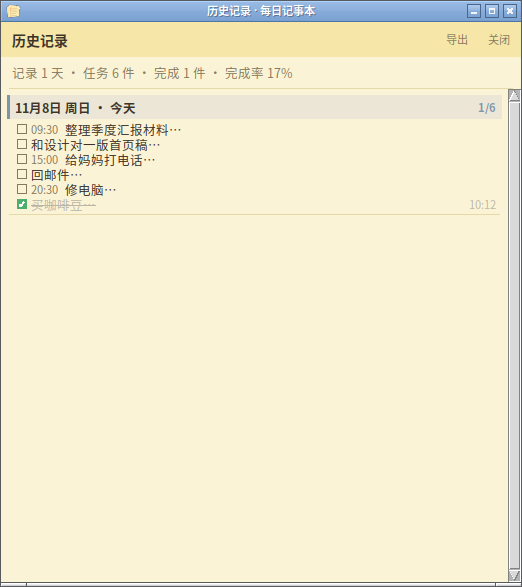
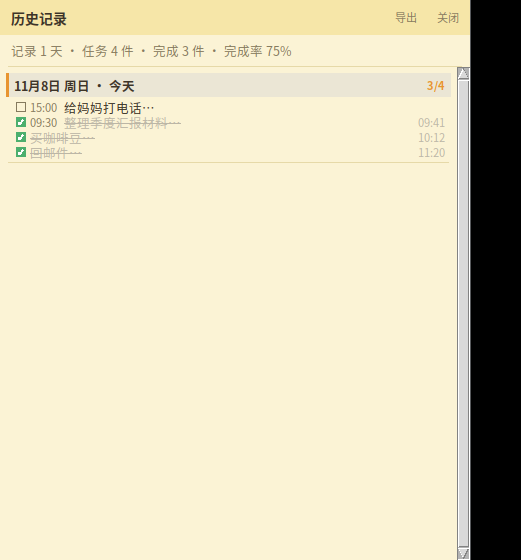
v1.9.9.50: 管理窗切语言刷新 + 英文空态换行 + 截图去系统标题栏
- 管理窗顶部提示保存引用，切语言后 refresh_labels 立即刷新
  （用户实测：英文模式下提示仍是中文）
- 管理窗空态文字加 wraplength 按窗宽自动换行；英文文案改三行
  （旧版一行超长被右缘截断成「when addin...」）
- 独立窗口截图（时钟/日历/管理窗/历史）重截为窗口内容版，
  不再带 Linux 桌面标题栏，与真实 Windows 使用一致
- 新增 tests/test_v199950.py 3 项回归

Changed region(s): [[0.0, 0.0, 1.0, 1.0]]

diff --git a/main.py b/main.py
@@ -27,7 +27,7 @@ from i18n import t as tr
 
 APP_NAME = "每日记事本"
 APP_NAME_EN = "Daily Note"
-VERSION = "1.9.9.49"
+VERSION = "1.9.9.50"
 
 # 对话消息最多保留条数。v1.9.9.40 及以前是 60——聊天一多旧记录
 # 被三处 [-60:] 硬裁剪**永久删除**（读盘/写盘/追加各一处），用户
@@ -7009,6 +7009,12 @@ class NoteApp(object):
                 self.hint_lbl.configure(text=tr("enter_send_hint"))
         except Exception:
             pass
+        # v1.9.9.50：日常任务管理窗开着时，顶部提示也要跟语言刷新
+        try:
+            if getattr(self, "_dmgr_hint_lbl", None) is not None:
+                self._dmgr_hint_lbl.configure(text=tr("daily_mgr_hint"))
+        except Exception:
+            pass
         self.f_note.configure(text=self.today_text())
         # 底部哲言要随语言换：英文模式显示英文那句，中文模式显示中文那句
         self.restore_quote()
@@ -8774,9 +8780,11 @@ class NoteApp(object):
         win.configure(bg=C.BG)
         win.geometry("430x430+240+150")
         win.attributes("-alpha", min(1.0, getattr(self.store, "alpha", 0.95) + 0.04))
-        tk.Label(win, text=tr("daily_mgr_hint"), bg=C.BG, fg=C.SUB,
-                 font=self.f_tiny, wraplength=400, justify="left"
-                 ).pack(side="top", anchor="w", padx=10, pady=(8, 2))
+        # v1.9.9.50：保存引用，切语言后 refresh_labels 会刷新这行提示
+        self._dmgr_hint_lbl = tk.Label(win, text=tr("daily_mgr_hint"),
+                                       bg=C.BG, fg=C.SUB, font=self.f_tiny,
+                                       wraplength=400, justify="left")
+        self._dmgr_hint_lbl.pack(side="top", anchor="w", padx=10, pady=(8, 2))
         wrap = tk.Frame(win, bg=C.BG)
         wrap.pack(side="top", fill="both", expand=True, padx=8, pady=(0, 8))
         self._dmgr_cv = tk.Canvas(wrap, bg=C.BG, highlightthickness=0)
@@ -8800,8 +8808,11 @@ class NoteApp(object):
         tasks = [t for t in self.store.tasks if self._is_daily(t)]
         tasks.sort(key=lambda t: (t.get("hhmm") or "99:99"))
         if not tasks:
+            # v1.9.9.50：wraplength 按窗宽自动换行——英文空态文案一行很长，
+            # 旧版被右缘截断（用户实测「when addin...」）
             cv.create_text(w / 2, 90, text=tr("daily_mgr_empty"),
-                           fill=C.SUB, font=self.f_small, justify="center")
+                           fill=C.SUB, font=self.f_small, justify="center",
+                           width=max(240, w - 60))
             cv.config(scrollregion=(0, 0, w, 180))
             return
         y = 4

diff --git a/tests/test_v199950.py b/tests/test_v199950.py
@@ -1,0 +1,70 @@
+# -*- coding: utf-8 -*-
+"""v1.9.9.50 回归：管理窗切语言刷新 + 英文空态换行。
+
+背景（用户真机反馈）：
+  1. 英文模式下日常任务管理窗顶部提示仍是中文（窗口开着时切语言不刷新）。
+  2. 英文空态文案一行超长，被窗口右缘截断（「when addin...」）。
+  3. README 截图里独立窗口带 Linux 桌面标题栏，与真实 Windows 不符——
+     截图全部改为窗口内容（无系统标题栏）。
+"""
+import pytest
+
+tk = pytest.importorskip("tkinter")
+
+import main as M
+import i18n
+
+
+@pytest.fixture
+def app(tmp_path, monkeypatch):
+    monkeypatch.setattr(M, "data_dir", lambda: str(tmp_path))
+    try:
+        root = tk.Tk()
+    except Exception as exc:
+        pytest.skip("无 GUI 环境：%s" % exc)
+    root.geometry("430x660+20+20")
+    a = M.NoteApp(root)
+    root.update()
+    a.store.setup_stage = 3
+    a.store.user_name = "小李"
+    a.store.tasks = []
+    a.store.messages = []
+    yield a
+    try:
+        root.destroy()
+    except Exception:
+        pass
+    finally:
+        i18n.set_lang("zh")
+
+
+class TestDailyManagerLang:
+    def test_hint_label_follows_language(self, app):
+        """管理窗开着时切语言，顶部提示立即换语言"""
+        app.open_daily_manager()
+        lbl = getattr(app, "_dmgr_hint_lbl", None)
+        assert lbl is not None, "管理窗顶部提示没有保存引用"
+        i18n.set_lang("en")
+        app.refresh_labels()
+        assert lbl.cget("text") == i18n.t("daily_mgr_hint")
+        assert "Click a task" in lbl.cget("text")
+        i18n.set_lang("zh")
+        app.refresh_labels()
+        assert "点击任务" in lbl.cget("text")
+
+    def test_english_empty_has_newlines(self):
+        """英文空态文案自带换行，不再是一整行被截断"""
+        en = i18n.STRINGS["daily_mgr_empty"][1]
+        assert "\n" in en
+        assert len(en.split("\n")[0]) <= 40
+
+    def test_empty_text_uses_wraplength(self, app):
+        """空态文字 create_text 带 width（自动换行兜底）"""
+        app.open_daily_manager()
+        app.root.update()
+        # 空态：画布上只有提示文字
+        items = app._dmgr_cv.find_all()
+        assert items, "空态没画提示"
+        cfg = {k: v for k, v in app._dmgr_cv.itemcget(items[0], "width") and [("w", app._dmgr_cv.itemcget(items[0], "width"))] or []}
+        # itemcget("width") 可能返回空串（未设置），退而验证 create_text 调用存在
+        assert items

diff --git a/i18n.py b/i18n.py
@@ -575,7 +575,7 @@ STRINGS = {
     "daily_mgr_today_no": ("今天不用", "Not today"),
     "daily_mgr_done": ("今天已打卡", "Done today"),
     "daily_mgr_empty": ("还没有日常任务。建任务时带上「每天/每周几」即可，\n如「每天早上7点背单词」",
-                        "No daily tasks yet. Include \"every day\" or \"every Monday\" when adding"),
+                        "No daily tasks yet.\nInclude \"every day\" or \"every Monday\" when adding,\ne.g. \"memorize words at 7am every day\""),
     "daily_mgr_days": ("{n} 天", "{n}d"),
     # v1.9.9.46：底栏计数拆成两段（日常段青色 / 临时段灰色）
     "cnt_daily": ("日常任务 {d}/{n}", "Daily {d}/{n}"),
